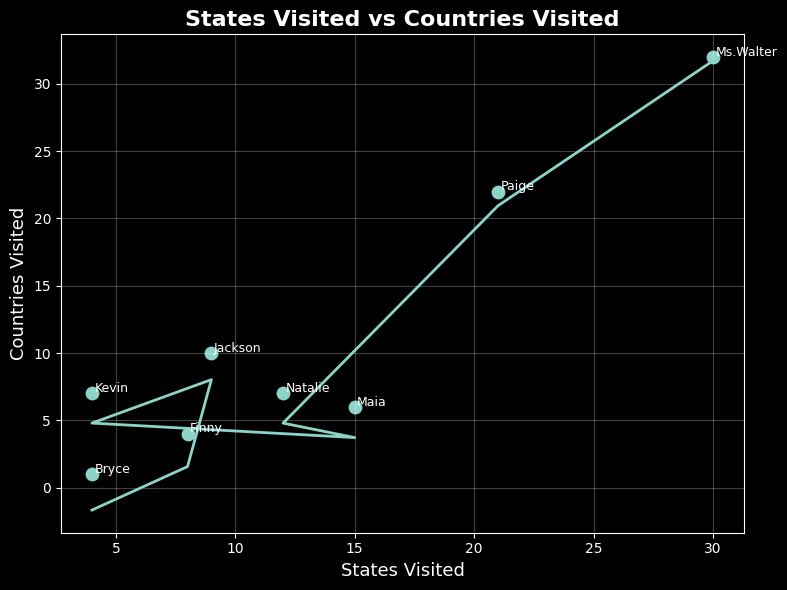
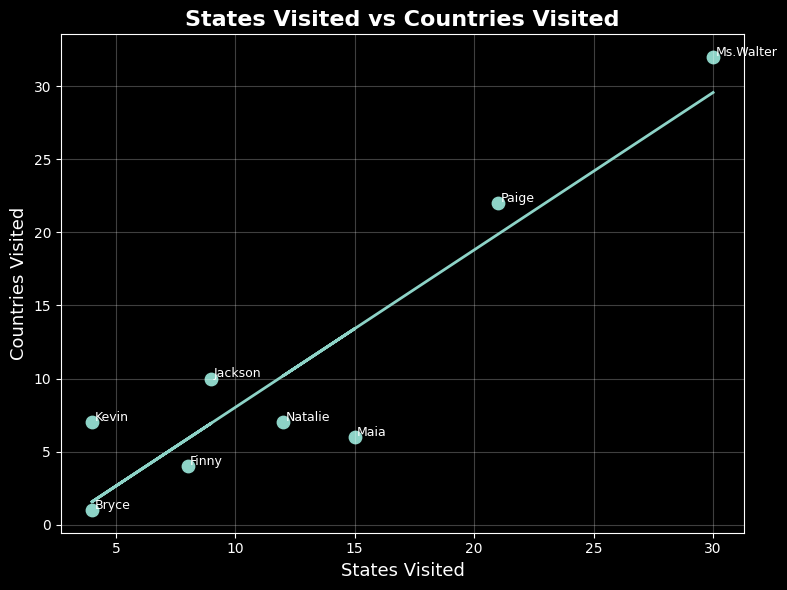
commit

diff --git a/main.py b/main.py
@@ -64,15 +64,20 @@ for i, row in df.iterrows():
         fontsize=9
     )
 
-
 plt.title('States Visited vs Countries Visited', fontsize=16, fontweight='bold')
 plt.xlabel('States Visited', fontsize=13)
 plt.ylabel('Countries Visited', fontsize=13)
 plt.grid(alpha=0.25)
 plt.tight_layout()
 
-j, k = np.polyfit(df['States Visited'].dropna(), df['Countries Visited'].dropna(),1)
-plt.plot(df['States Visited'], j*df['Countries Visited']+k, linewidth=2)
+# Line of best fit
+x = df['States Visited'].dropna()
+y = df['Countries Visited'].dropna()
+
+m, b = np.polyfit(x, y, 1)   # slope (m) and intercept (b)
+
+# Plot the regression line
+plt.plot(x, m * x + b, linewidth=2)
 
 plt.savefig('states_vs_countries.png', bbox_inches='tight')
 plt.close()
